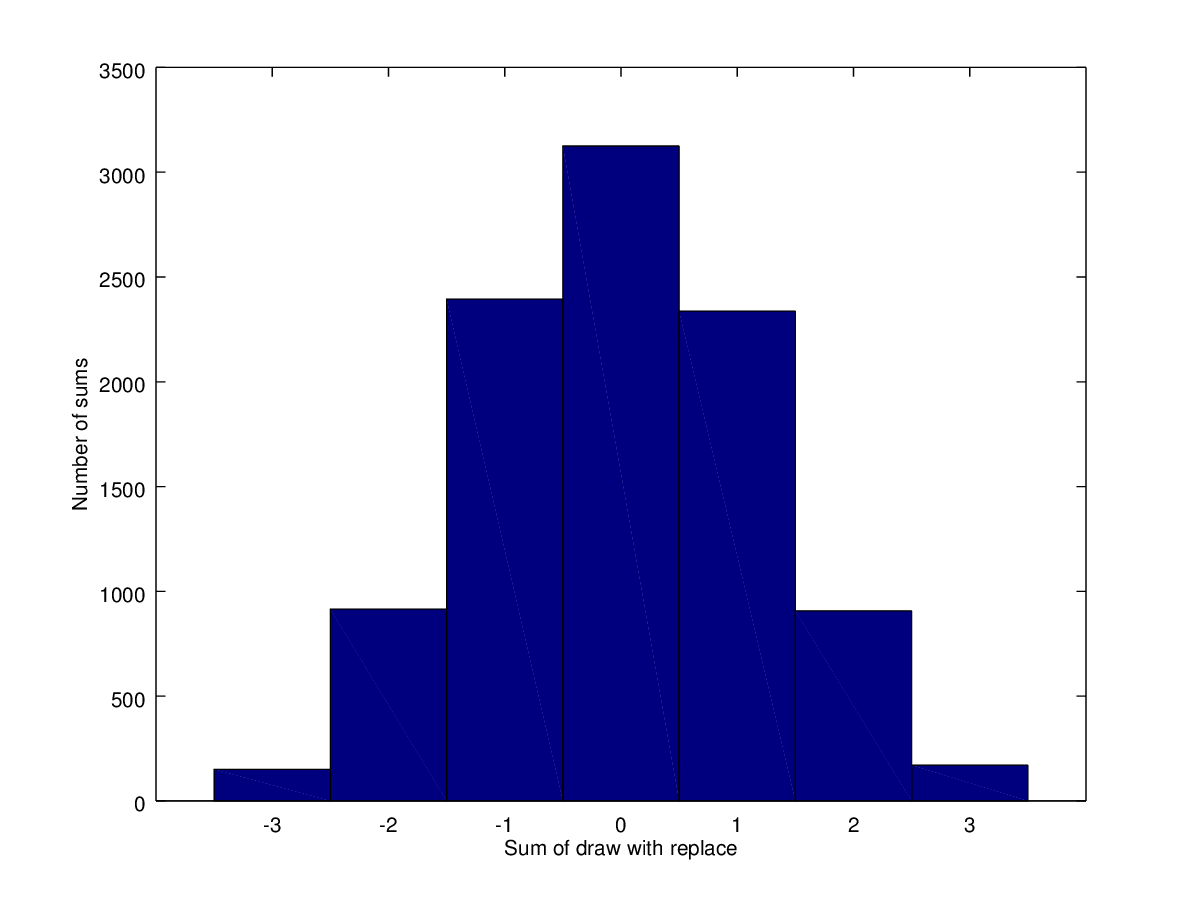
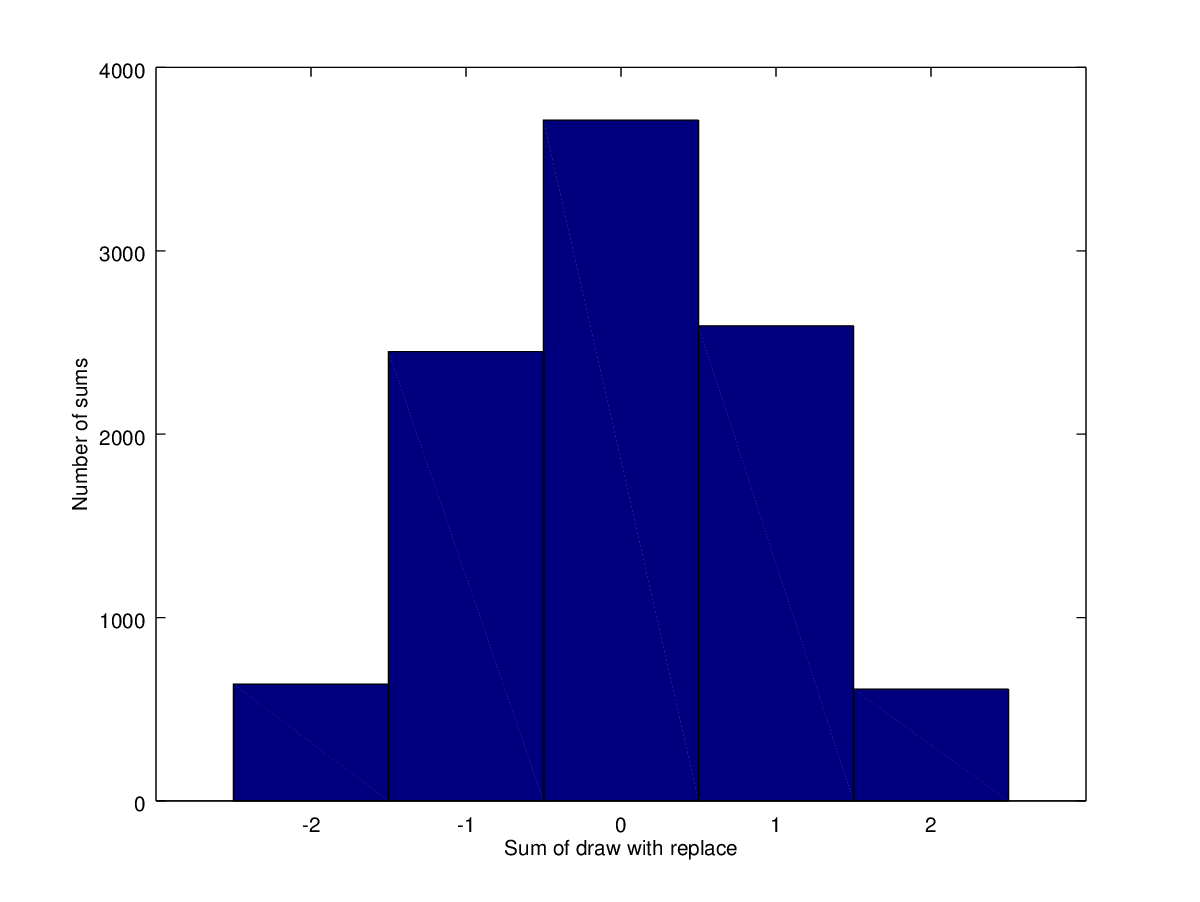
Added fixes for q5 and q6 stat2203

diff --git a/sem2-2017/stat2203/ass1.md b/sem2-2017/stat2203/ass1.md
@@ -131,15 +131,15 @@ By running the above code, we get the output provided below. The point at which 
   bit = get\_sent\_bit();
   ~(blue)if~ bit == ~(green)1~
     ~(blue)if~ rand >= ~(green)0.9~
-      received = bit;
-    ~(blue)else~
       received = ~(green)0~;
+    ~(blue)else~
+      received = bit;
     ~(blue)endif~
   ~(blue)else~
     ~(blue)if~ rand >= ~(green)0.95~
-      received = bit;
-    ~(blue)else~
       received = ~(green)1~;
+    ~(blue)else~
+      received = bit;
     ~(blue)endif~
   ~(blue)endif~
   sent = bit;
@@ -153,24 +153,24 @@ By running the above code, we get the output provided below. The point at which 
   ~(blue)endif~
 ~(blue)endfunction~
 ```
-Based on the code above, the output by running `ass1q5`, we can expect an answer close to `5241:4728`
+Based on the code above, the output by running `ass1q5`, we can expect an answer close to `247:4772`
 
 # Question 6
 ```
 ~(blue)function~ ass1q6
   N=1e4;
-  result = [~(green)-3~:~(green)3~];
+  result = [~(green)1~:N];
   ~(blue)for~ i = ~(green)1~:N
     result(i) = sumWithReplace();
   ~(blue)endfor~
   result;
-  hist(result, ~(green)-3~:~(green)3~);
+  hist(result, ~(green)-2~:~(green)2~);
   xlabel(~(gold)"Sum of draw with replace"~);
   ylabel(~(gold)"Number of sums"~);
 ~(blue)endfunction~
 
 ~(blue)function~ result = sumWithReplace
-  result = sum(int8(rand(~(green)3~, ~(green)1~) * ~(green)2~) - ~(green)1~);
+  result = sum(int8(rand(~(green)2~, ~(green)1~) * ~(green)2~) - ~(green)1~);
 ~(blue)endfunction~
 ```
 The above code generates the following histogram:
